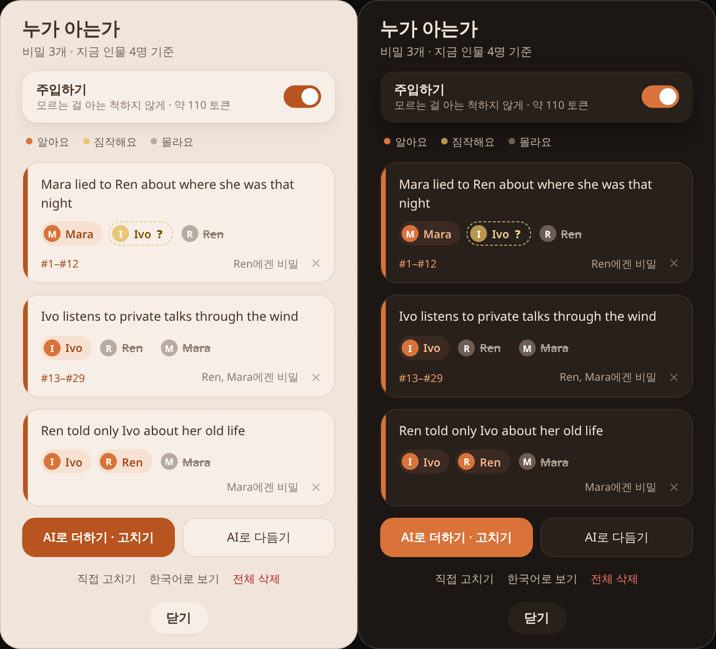
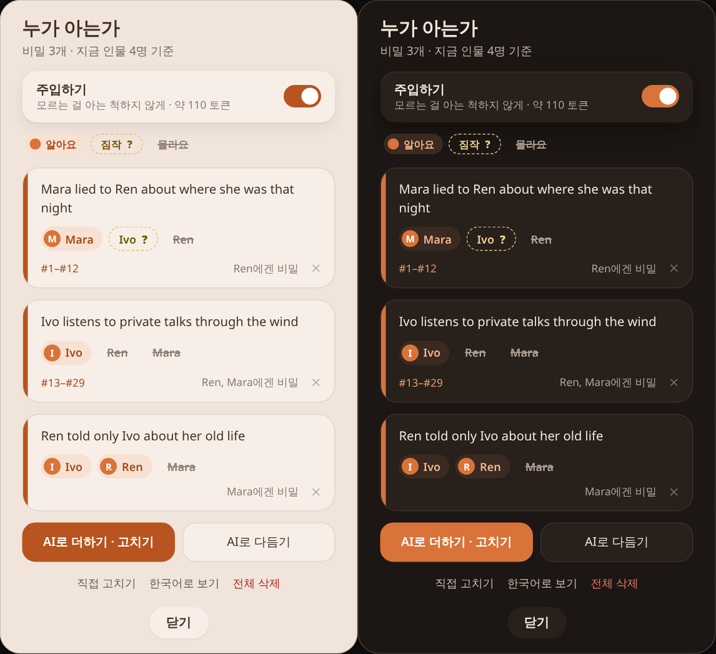
3.167.7: 누가 아는가: only who knows has a circle; the legend on top is the same three tags (as the old one), example and list alike
Claude-Session: https://claude.ai/code/session_01TBUyc5NesEMBcPKHWzpL6W

diff --git a/src/knowledge.js b/src/knowledge.js
@@ -204,14 +204,14 @@ export async function openKnowledge() {
     const emptyHtml = () => {
         const [a, b, c2] = ['Claude', 'Gemini', 'GPT'];
         // a letter circle for everyone (green knows · yellow suspects · red doesn't), the real list's dashed ? for suspects, struck for doesn't
-        const tag = (n, k) => `<span class="na_kn3_tag ${k}"><i>${esc(n[0])}</i><em>${esc(n)}</em>${k === 's' ? '<b>?</b>' : ''}</span>`;
+        const tag = (n, k) => `<span class="na_kn3_tag ${k}">${k === 'k' ? `<i>${esc(n[0])}</i>` : ''}<em>${esc(n)}</em>${k === 's' ? '<b>?</b>' : ''}</span>`;
         return `<div class="na_v2_card na_kn3_hello"><span class="na_kn3_big"><svg width="24" height="24" viewBox="0 0 24 24" fill="none" stroke="currentColor" stroke-width="2" stroke-linecap="round" stroke-linejoin="round"><path d="M2 12s3.6-7 10-7 10 7 10 7-3.6 7-10 7S2 12 2 12z"/><circle cx="12" cy="12" r="3"/><path d="M3 3l18 18"/></svg></span>
             <b>아직 정리된 비밀이 없어요</b><small>아카이브를 읽고 비밀마다 아는 사람 · 모르는 사람을 정리해요</small>
             <button type="button" class="na_kn3_make">${svgA('<path d="M12 3l1.8 4.7L18.5 9.5l-4.7 1.8L12 16l-1.8-4.7L5.5 9.5l4.7-1.8z"/>', 15)}AI로 만들기</button>
             <button type="button" class="na_linkbtn na_kn3_write">직접 쓰기</button></div>
           <div class="na_kn3_sect"><span>이렇게 정리돼요</span><small>예시</small></div>
           <div class="na_v2_card na_kn3_ex">
-            <div class="na_kn3_leg"><span class="k"><i></i>알아요</span><span class="s"><i></i>짐작해요</span><span class="u"><i></i>몰라요</span></div>
+            <div class="na_kn3_leg"><span class="na_kn3_tag k"><i></i><em>알아요</em></span><span class="na_kn3_tag s"><em>짐작</em><b>?</b></span><span class="na_kn3_tag u"><em>몰라요</em></span></div>
             <div><p>${esc(a)}, 그날 밤 있던 곳을 ${esc(b)}에게 숨김</p><span class="na_kn_people">${tag(a, 'k')}${tag(c2, 's')}${tag(b, 'u')}</span></div>
             <div><p>${esc(c2)}의 옛 이름</p><span class="na_kn_people">${tag(c2, 'k')}${tag(a, 'k')}${tag(b, 'u')}</span></div>
           </div>`;
@@ -231,13 +231,13 @@ export async function openKnowledge() {
         $root.find('.na_kn_inject input').prop('checked', !!m.knowInject);
         // the same tags and legend as the empty window's example: green with a face (who knows), yellow dashed ? (suspects),
         // grey struck (doesn't know); the legend sits above the list
-        const legend = '<div class="na_kn3_leg na_kn3_legbar"><span class="k"><i></i>알아요</span><span class="s"><i></i>짐작해요</span><span class="u"><i></i>몰라요</span></div>';
+        const legend = '<div class="na_kn3_leg na_kn3_legbar"><span class="na_kn3_tag k"><i></i><em>알아요</em></span><span class="na_kn3_tag s"><em>짐작</em><b>?</b></span><span class="na_kn3_tag u"><em>몰라요</em></span></div>';
         const letter = n => `<i>${esc(String(n)[0] || '?')}</i>`;
         $root.find('.na_kn_list').html(rows.length ? legend + rows.map((r, i) => {
             const s = r.src ? findCited(secs(), r.src) : null;
             const k = r.knows.map(x => `<span class="na_kn3_tag k">${/<img/.test(faceHtml(x, 18)) ? faceHtml(x, 18) : letter(x)}<em>${esc(x)}</em></span>`).join('');
-            const su = r.suspects.map(x => `<span class="na_kn3_tag s">${letter(x)}<em>${esc(x)}</em><b>?</b></span>`).join('');
-            const u = r.unaware.map(x => `<span class="na_kn3_tag u">${letter(x)}<em>${esc(x)}</em></span>`).join('');
+            const su = r.suspects.map(x => `<span class="na_kn3_tag s"><em>${esc(x)}</em><b>?</b></span>`).join('');
+            const u = r.unaware.map(x => `<span class="na_kn3_tag u"><em>${esc(x)}</em></span>`).join('');
             const secret = r.unaware.length > 0;
             return `<div class="na_kn_row na_kn2_card ${secret ? 'secret' : ''}" data-i="${i}">
               <div class="na_kn_fact">${esc(r.fact)}${tr?.[i] ? `<div class="na_kn_tr">${esc(tr[i])}</div>` : ''}</div>

diff --git a/style.css b/style.css
@@ -7519,3 +7519,9 @@ body.na_darkui .na_kn3_tag.k { background: #3A2A21 !important; color: #F2B48A !i
 .na_kn3_tag.s i, .na_kn3_leg span.s i { background: #E8C878 !important; }
 body.na_darkui :is(.na_kn3_tag.s i, .na_kn3_leg span.s i) { background: #B8964E !important; }
 .na_kn3_tag.s { border-color: #E2C27A !important; }
+/* 누가 아는가: only who knows has a circle; 짐작 and 몰라요 are plain tags; the legend is the same three tags, small */
+.na_kn3_tag.s, .na_kn3_tag.u { padding: 0 10px !important; }
+.na_kn3_leg .na_kn3_tag { height: 22px; font-size: 11px; }
+.na_kn3_leg .na_kn3_tag.k { padding: 0 9px 0 4px !important; }
+.na_kn3_leg .na_kn3_tag.k i { width: 12px; height: 12px; }
+.na_kn3_leg { display: flex; flex-wrap: wrap; align-items: center; gap: 6px; }

diff --git a/src/core.js b/src/core.js
@@ -12,7 +12,7 @@ import { parseSections } from './sections.js';
 
 export const MODULE = 'narrative_archive';
 export const PROMPT_KEY = 'narrative_archive_injection';
-export const VERSION = '3.167.6';
+export const VERSION = '3.167.7';
 export const SNAPSHOT_MAX = 5;
 export const SNAPSHOT_MAX_CHARS = 2_000_000;
 
